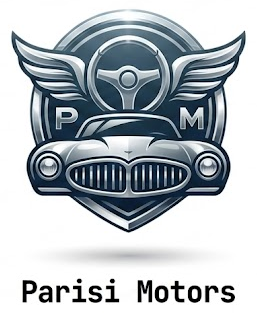
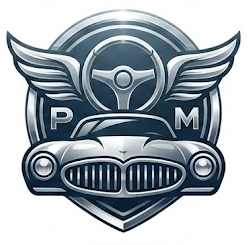
Arreglo imagenes

diff --git a/src/secciones/Proyectos/projects.jsx b/src/secciones/Proyectos/projects.jsx
@@ -1,8 +1,8 @@
 import styles from './ProjectsStyles.module.css';
 import parisiMotorsLight from '../../assets/parisiMotors.png';
-import parisiMotorsDark from '../../assets/parisiMotors_dark.png';
+import parisiMotorsDark from '../../assets/parisiMotors_dark2.png';
 import teatrosLight from '../../assets/teatros.png';
-import teatrosDark from '../../assets/teatros_dark.png';
+import teatrosDark from '../../assets/teatros_dark2.png';
 import ProjectCard from '../../common/projectCard.jsx';
 import { useLanguage } from '../../common/lenguajes.jsx';
 import { useTheme} from '../../common/themeContext.jsx';
